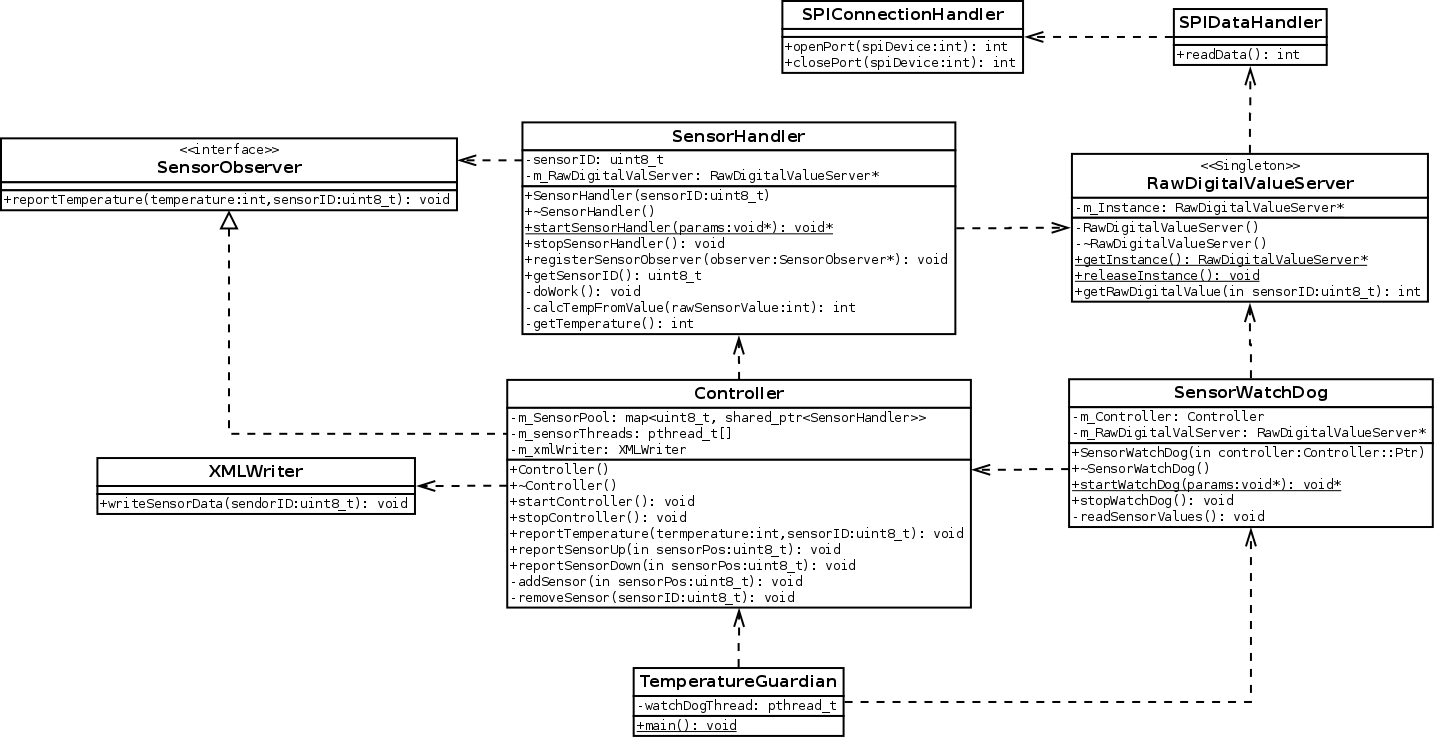
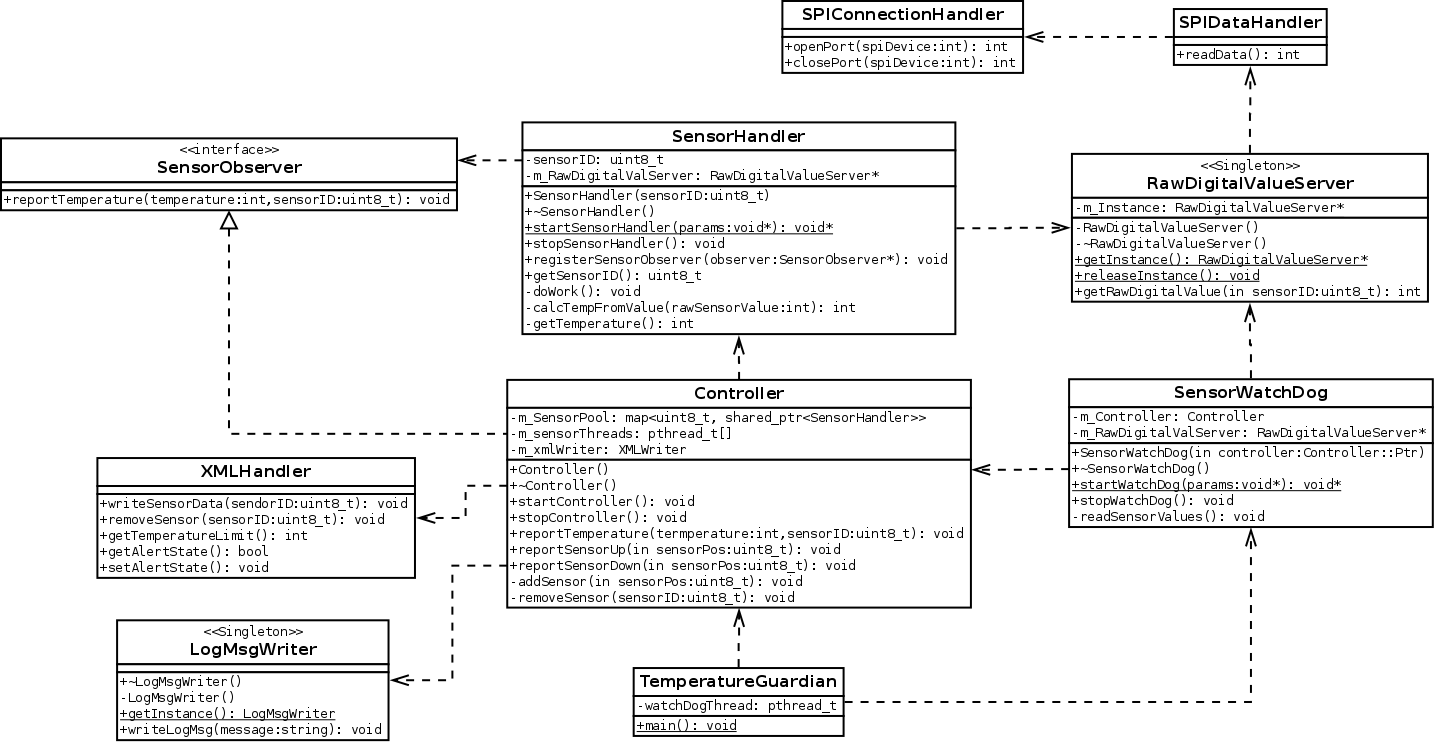
Log Message Writer hinzugefügt

diff --git a/TemperatureGuardian/src/source/Controller.cpp b/TemperatureGuardian/src/source/Controller.cpp
@@ -8,18 +8,21 @@
 #include <unistd.h>
 #include <iostream>
 #include <cstdio>
+#include <ctime>
+#include <iomanip>
 
 Controller::Controller()
 	: m_running(false)
 	, m_xmlHandler(new XMLHandler())
-	, m_MailSender(new EMailSender) {
+	, m_MailSender(new EMailSender)
+	, m_LogMsgWriter(LogMsgWriter::getInstance()) {
 	pthread_mutex_init(&m_mutex, NULL);
 	m_MailSender->setSourceAddress("Temeraturwaechter@enterpriselab.ch");
 	m_MailSender->setDestinationAddress("tkreienbuehl@bluewin.ch");
 	m_MailSender->setHeaderText("TemperaturWächter online");
 	m_MailSender->setMessageText("Der Temperaturwächter wurde gestartet");
 	if (m_MailSender->sendEmail() == 0 ) {
-		std::cout << "Start mail sent" << std::endl;
+		m_LogMsgWriter->writeLogMsg("Start mail sent");
 	}
 }
 
@@ -80,6 +83,10 @@ void Controller::addSensor(uint8_t sensorPos) {
 	sensor->registerSensorObserver(this);
 	m_SensorPool.insert(std::make_pair(sensorPos, sensor));
 	pthread_create(&m_SensorThreads[sensorPos], NULL, SensorHandler::startSensorHandler, sensor);
+	char buf[120];
+	sprintf(buf,"New sensor found and activated. Sensor ID = %u", sensorPos);
+	std::string msg = buf;
+	m_LogMsgWriter->writeLogMsg(msg);
 }
 
 void Controller::removeSensor(uint8_t sensorID) {
@@ -91,6 +98,10 @@ void Controller::removeSensor(uint8_t sensorID) {
 		m_xmlHandler->removeSensor(sensorID);
 		usleep(5000 * 1000);
 		delete sensor;
+		char buf[120];
+		sprintf(buf,"Sensor %u stopped working, removed", sensorID);
+		std::string msg = buf;
+		m_LogMsgWriter->writeLogMsg(msg);
 	}
 }
 
@@ -104,4 +115,5 @@ void Controller::reportTemperaturLimitReached(uint8_t sensorID) {
 	m_MailSender->setMessageText(buf);
 	m_MailSender->sendEmail();
 	m_xmlHandler->setAlertState();
+	m_LogMsgWriter->writeLogMsg("Alert message sent");
 }

diff --git a/TemperatureGuardian/src/header/LogMsgWriter.hpp b/TemperatureGuardian/src/header/LogMsgWriter.hpp
@@ -1,0 +1,35 @@
+/*
+ * LogMsgWriter.hpp
+ *
+ *  Created on: 11 May 2017
+ *      Author: tobias
+ */
+
+#ifndef HEADER_LOGMSGWRITER_HPP_
+#define HEADER_LOGMSGWRITER_HPP_
+
+#include <iostream>
+#include <cstdio>
+#include <ctime>
+#include <iomanip>
+
+class LogMsgWriter {
+private:
+	LogMsgWriter();
+	~LogMsgWriter();
+	LogMsgWriter(LogMsgWriter const&);				// Copy constructor not implemented!
+	LogMsgWriter& operator=(LogMsgWriter const&);	// assignment operator not implemented!
+
+public:
+
+	static LogMsgWriter* getInstance();
+	static void releaseInstance();
+
+	void writeLogMsg(std::string message);
+
+private:
+
+	static LogMsgWriter* m_Instance;
+};
+
+#endif /* HEADER_LOGMSGWRITER_HPP_ */

diff --git a/TemperatureGuardian/src/source/LogMsgWriter.cpp b/TemperatureGuardian/src/source/LogMsgWriter.cpp
@@ -1,0 +1,33 @@
+/*
+ * LogMsgWriter.cpp
+ *
+ *  Created on: 11 May 2017
+ *      Author: tobias
+ */
+#include "../header/LogMsgWriter.hpp"
+
+LogMsgWriter* LogMsgWriter::m_Instance = NULL;
+
+LogMsgWriter::LogMsgWriter() {
+
+}
+
+LogMsgWriter::~LogMsgWriter() {
+}
+
+LogMsgWriter* LogMsgWriter::getInstance() {
+	if (m_Instance == NULL) {
+		m_Instance = new LogMsgWriter;
+	}
+	return m_Instance;
+}
+
+void LogMsgWriter::releaseInstance() {
+	delete m_Instance;
+	m_Instance = NULL;
+}
+
+void LogMsgWriter::writeLogMsg(std::string message) {
+	std::time_t timeNow = std::time(NULL);
+	std::cout << std::put_time(std::localtime(&timeNow), "%d-%m-%y %OH:%OM:%OS") << " " << message << std::endl;
+}

diff --git a/TemperatureGuardian/src/header/Controller.hpp b/TemperatureGuardian/src/header/Controller.hpp
@@ -17,6 +17,7 @@
 #include "SensorObserver.hpp"
 #include "EMailSender.hpp"
 #include "XMLHandler.hpp"
+#include "LogMsgWriter.hpp"
 
 #define MAX_NR_OF_SENSORS 8
 
@@ -48,6 +49,7 @@ private:
 	XMLHandler* m_xmlHandler;
 	EMailSender* m_MailSender;
 	pthread_mutex_t m_mutex;
+	LogMsgWriter* m_LogMsgWriter;
 };
 
 #endif /* __CONTROLLER_H_ */
